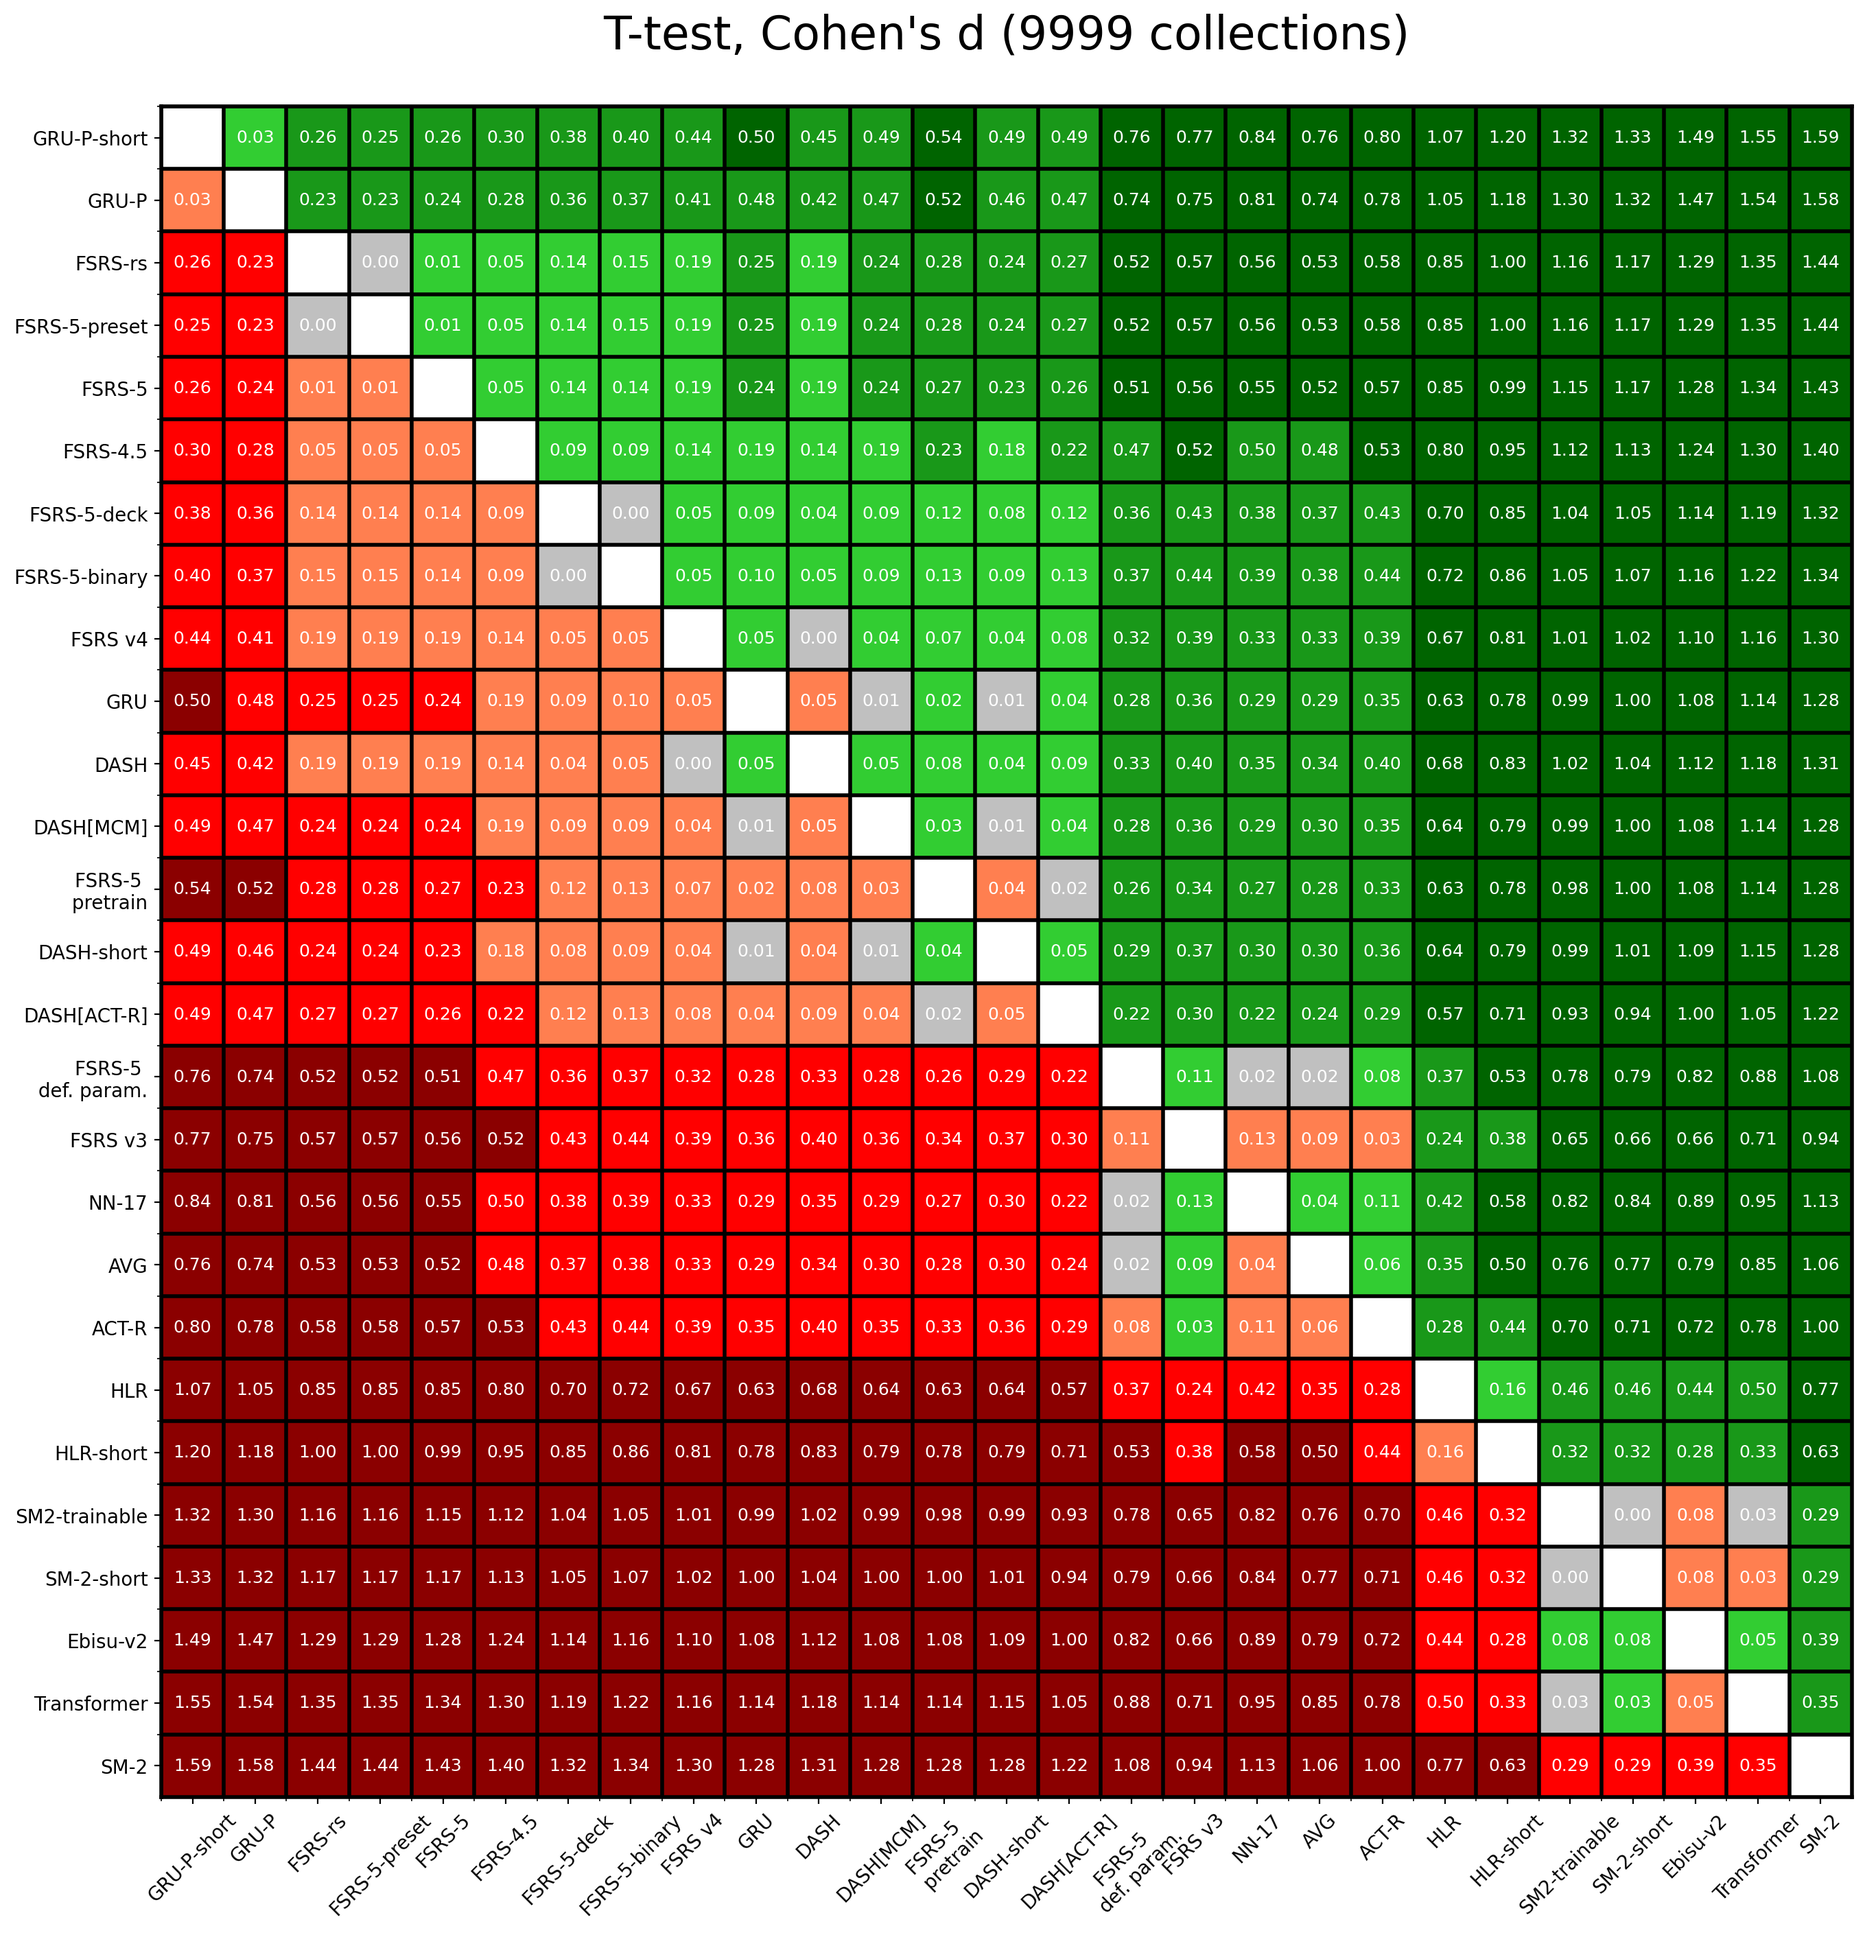
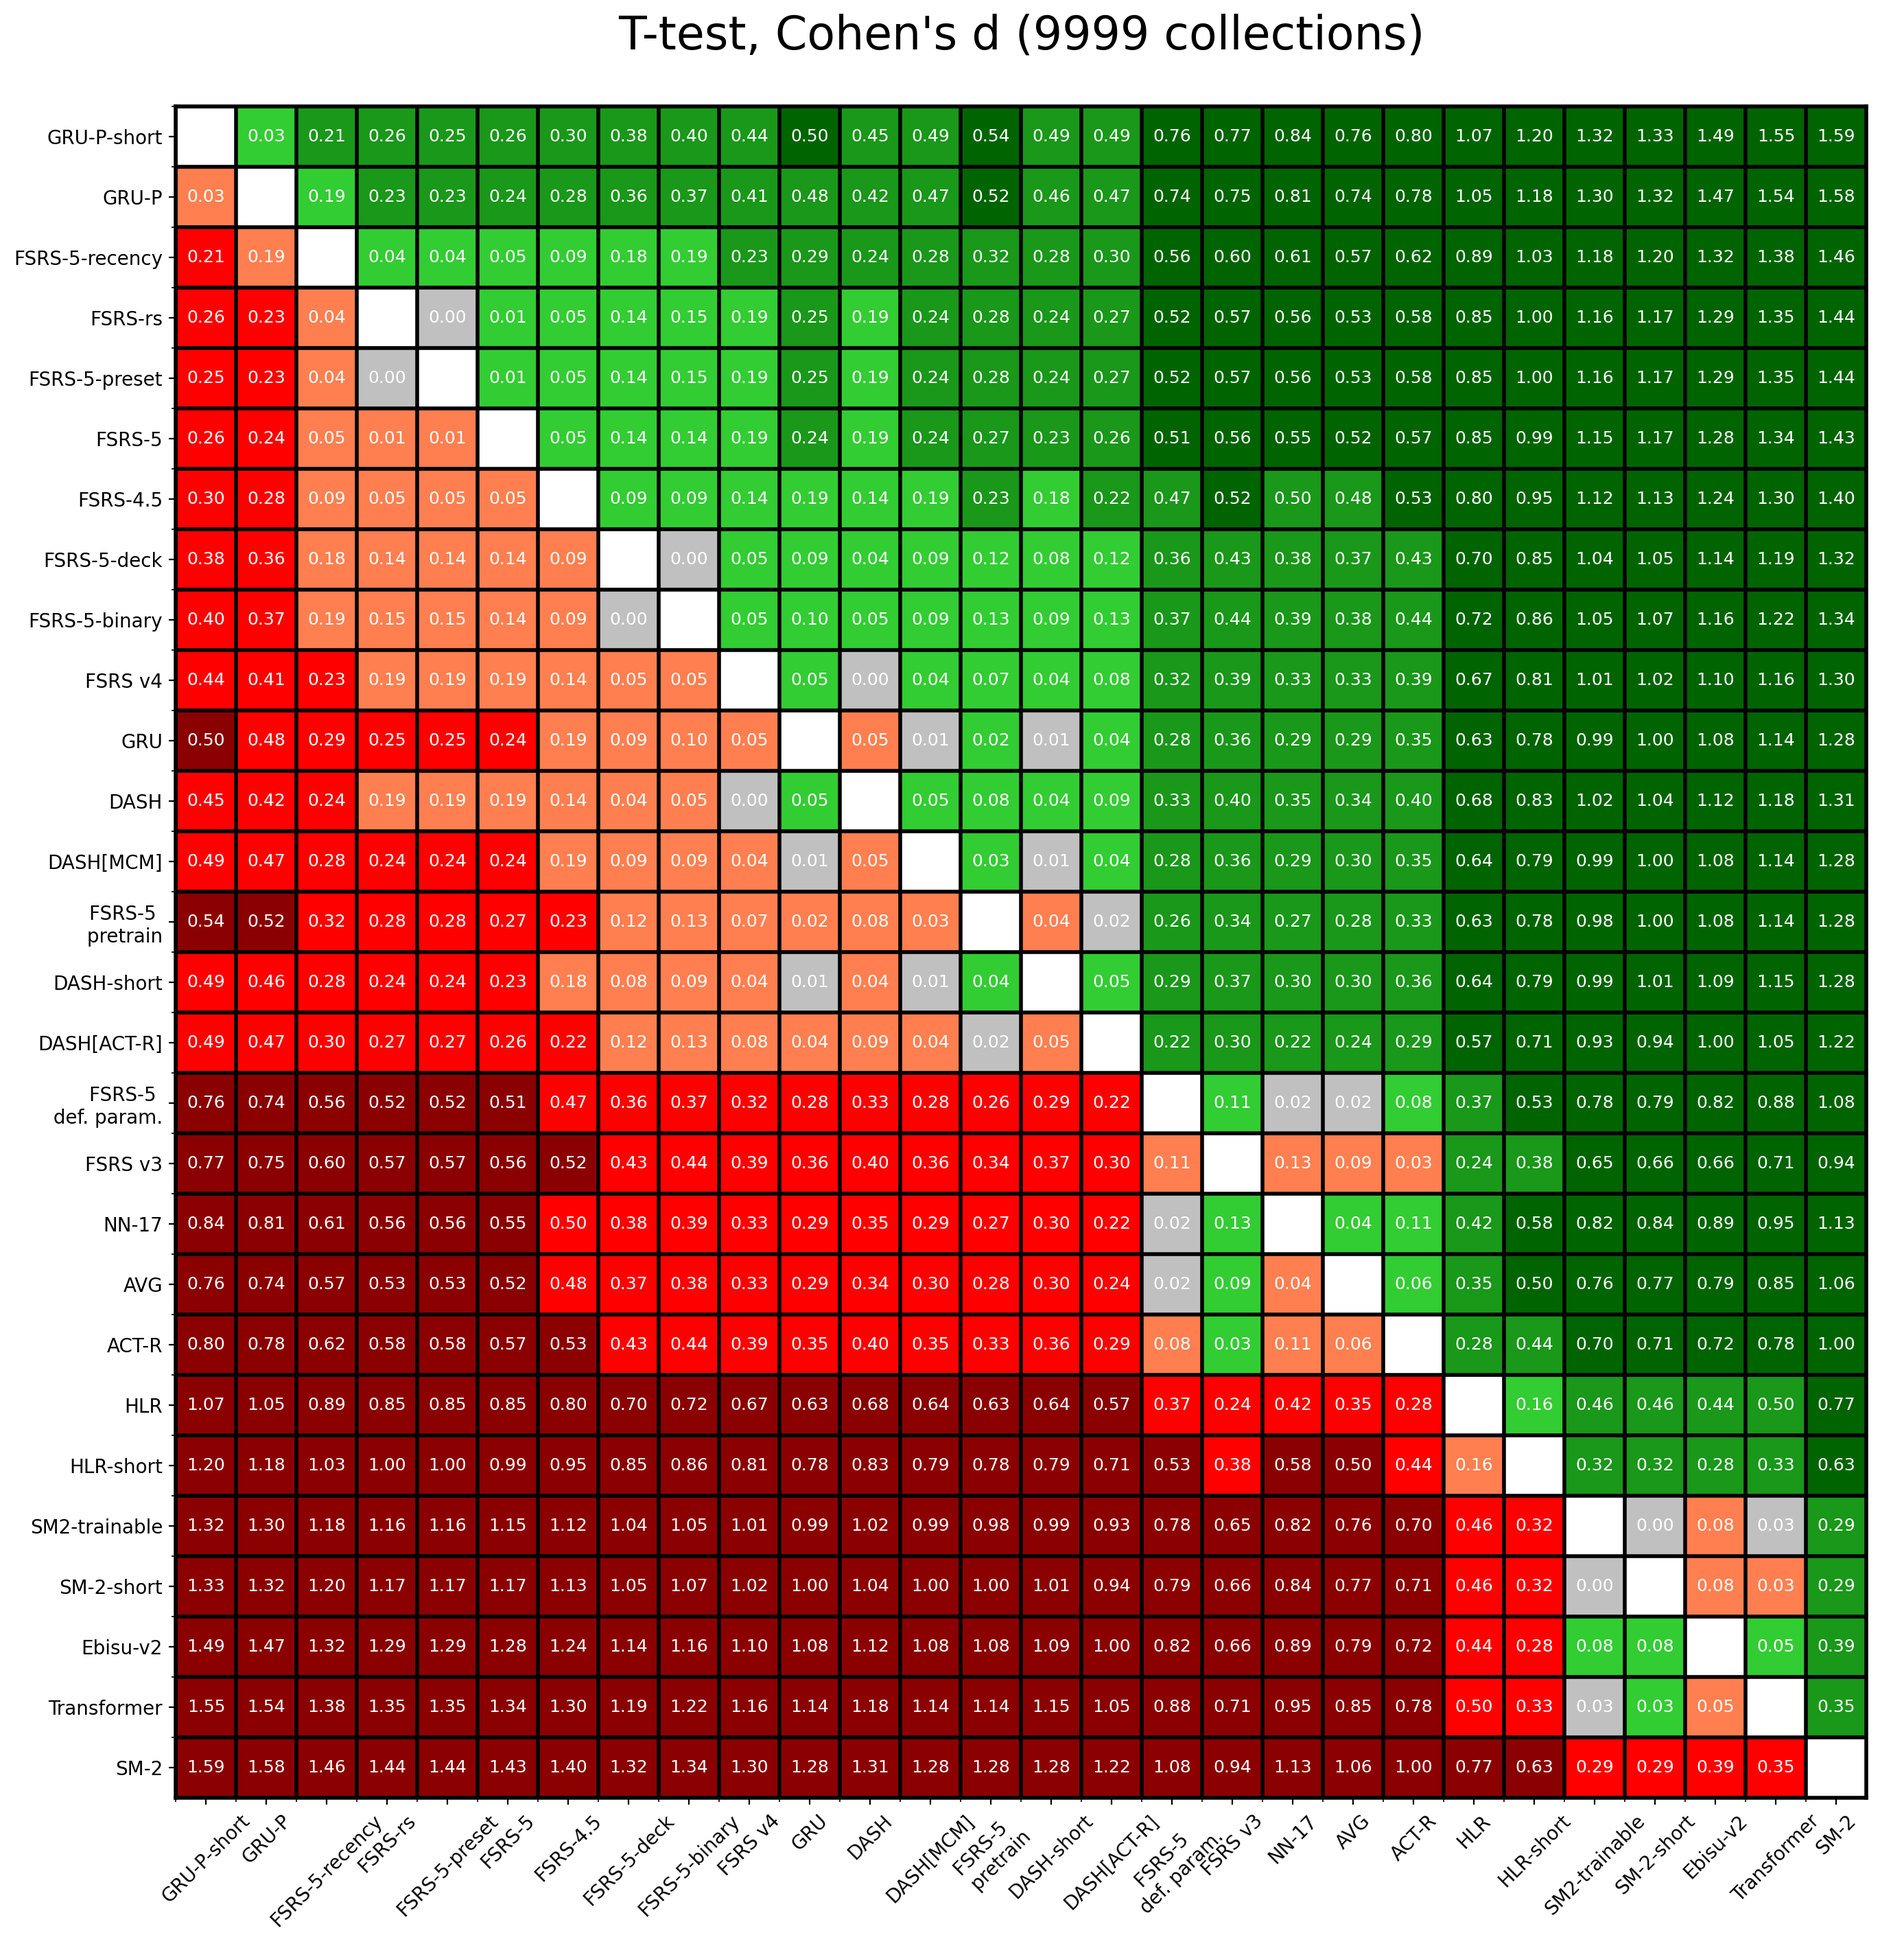
add FSRS-5-recency to metrics table

diff --git a/significance_table.py b/significance_table.py
@@ -68,6 +68,7 @@ if __name__ == "__main__":
     models = [
         "GRU-P-short",
         "GRU-P",
+        "FSRS-5-recency",
         "FSRS-rs",
         "FSRS-5-preset",
         "FSRS-5",

diff --git a/superiority.py b/superiority.py
@@ -16,6 +16,7 @@ if __name__ == "__main__":
     models = [
         "GRU-P-short",
         "GRU-P",
+        "FSRS-5-recency",
         "FSRS-rs",
         "FSRS-5-preset",
         "FSRS-5",

diff --git a/README.md b/README.md
@@ -39,6 +39,7 @@ We use three metrics in the SRS benchmark to evaluate how well these algorithms 
     - FSRS-5 binary: FSRS which treats `hard` and `easy` ratings as `good`.
     - FSRS-5 preset: different parameters are used for each preset. The minimum number of presets in Anki is one, a preset can be applied to multiple decks.
     - FSRS-5 deck: different parameters are used for each deck.
+    - FSRS-5 recency: FSRS-5 trained on recency weighted reviews.
 - FSRS-rs: the Rust port of FSRS-5. See also: https://github.com/open-spaced-repetition/fsrs-rs
 - GRU: a type of neural network that's often used for making predictions based on a sequence of data. It's a classic in the field of machine learning for time-related tasks.
     - GRU-P: a variant of GRU that removes the forgetting curve and predicts the probability of recall directly.
@@ -71,6 +72,7 @@ The following tables present the means and the 99% confidence intervals. The bes
 | --- | --- | --- | --- | --- |
 | **GRU-P-short** | 297 | **0.320±0.0080** | **0.042±0.0013** | **0.710±0.0047** |
 | GRU-P | 297 | 0.325±0.0081 | 0.043±0.0013 | 0.699±0.0046 |
+| FSRS-5 recency | 19 | 0.326±0.0080 | 0.049±0.0014 | 0.704±0.0042 |
 | FSRS-5 preset | 19 | 0.328±0.0083 | 0.051±0.0015 | 0.702±0.0043 |
 | FSRS-5 | 19 | 0.328±0.0082 | 0.052±0.0015 | 0.701±0.0044 |
 | FSRS-rs | 19 | 0.328±0.0082 | 0.052±0.0015 | 0.700±0.0043 |
@@ -103,6 +105,7 @@ The following tables present the means and the 99% confidence intervals. The bes
 | --- | --- | --- | --- | --- |
 | **GRU-P-short** | 297 | **0.346±0.0042** | **0.062±0.0011** | 0.699±0.0026 |
 | GRU-P | 297 | 0.352±0.0042 | 0.063±0.0011 | 0.687±0.0025 |
+| FSRS-5 recency | 19 | 0.355±0.0043 | 0.072±0.0012 | 0.701±0.0023 |
 | FSRS-rs | 19 | 0.356±0.0045 | 0.074±0.0012 | 0.698±0.0023 |
 | FSRS-5 | 19 | 0.357±0.0043 | 0.074±0.0012 | 0.699±0.0023 |
 | FSRS-5 preset | 19 | 0.358±0.0045 | 0.074±0.0012 | 0.699±0.0023 |
